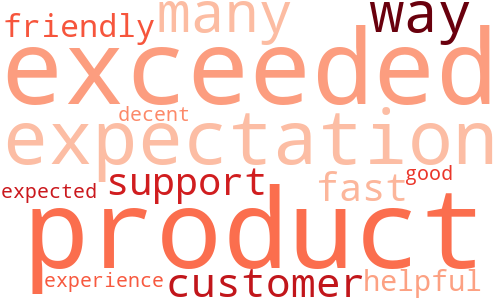
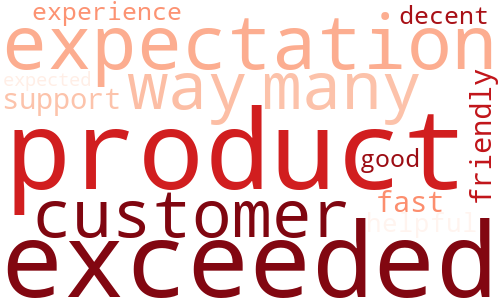
Latest Update

diff --git a/app.py b/app.py
@@ -10,7 +10,6 @@ import os
 
 app = Flask(__name__)
 
-#-----DB connect-----
 db = mysql.connector.connect(
     host="localhost",
     user="root",
@@ -19,47 +18,42 @@ db = mysql.connector.connect(
 )
 cursor = db.cursor()
 
-#-----Loaded model and vectorizer----
 loaded_vectorizer = joblib.load("tfidf_vectorizer.pkl")
 loaded_model = joblib.load("best_model.pkl")
 
-#------NLTK setup-------
 nltk.download('stopwords')
 nltk.download('wordnet')
 stop_words = set(stopwords.words('english'))
 lemmatizer = WordNetLemmatizer()
 
-# -------- Text Cleaner --------
 def clean_text(text):
     if not isinstance(text, str):
         return ""
     text = text.lower()
-    text = re.sub(r'\d+', '', text)  # hapus angka
-    text = re.sub(r"http\S+", "", text)  # hapus link
-    text = text.translate(str.maketrans("", "", string.punctuation))  # hapus tanda baca
+    text = re.sub(r'\d+', '', text)  
+    text = re.sub(r"http\S+", "", text)  
+    text = text.translate(str.maketrans("", "", string.punctuation)) 
     words = text.split()
     words = [word for word in words if word not in stop_words]
     words = [lemmatizer.lemmatize(word) for word in words]
     return " ".join(words)
 
-# -------- Sentiment Predictor --------
+
 def predict_sentiment(text, vectorizer, model):
     clean = clean_text(text)
     X_vec = vectorizer.transform([clean])
     y_pred = model.predict(X_vec)
     return int(y_pred[0])   # 1 = negative, 2 = positif
 
-# -------- Home --------
 @app.route("/")
 def home():
     return render_template("index.html")
 
-# -------- Dashboard --------
 @app.route("/dashboard")
 def dashboard():
-    mode = request.args.get("mode", "overall")  # default overall
+    mode = request.args.get("mode", "overall")  
 
-    # --- filter ---
+  
     if mode == "today":
         filter_total = "WHERE DATE(created_at) = CURDATE()"
         filter_pred = "AND DATE(created_at) = CURDATE()"
@@ -67,23 +61,18 @@ def dashboard():
         filter_total = ""
         filter_pred = ""
 
-    # --- Total ---
     cursor.execute(f"SELECT COUNT(*) FROM sentiment_results {filter_total}")
     total_reviews = cursor.fetchone()[0] or 0
 
-    # --- Positive ---
     cursor.execute(f"SELECT COUNT(*) FROM sentiment_results WHERE prediction = 2 {filter_pred}")
     positive_count = cursor.fetchone()[0] or 0
 
-    # --- Negative ---
     cursor.execute(f"SELECT COUNT(*) FROM sentiment_results WHERE prediction = 1 {filter_pred}")
     negative_count = cursor.fetchone()[0] or 0
 
-    # --- Percentage ---
     positive_percentage = round((positive_count / total_reviews) * 100, 1) if total_reviews > 0 else 0
     negative_percentage = round((negative_count / total_reviews) * 100, 1) if total_reviews > 0 else 0
 
-    # --- Recent reviews ---
     cursor.execute(f"""
         SELECT text_input, prediction, created_at 
         FROM sentiment_results 
@@ -103,7 +92,6 @@ def dashboard():
             "time": created_at.strftime("%Y-%m-%d %H:%M:%S")
         })
 
-    # --- Trend data ---
     if mode == "today":
         cursor.execute("""
             SELECT HOUR(created_at),
@@ -135,7 +123,6 @@ def dashboard():
     trend_negative = [r[2] for r in trend_rows[::-1]]
     trend_score = [float(r[3]) for r in trend_rows[::-1]]
 
-    # --- Word Cloud Data ---
     cursor.execute(f"SELECT text_input, prediction FROM sentiment_results {filter_total}")
     texts = cursor.fetchall()
     pos_text = " ".join([clean_text(t[0]) for t in texts if t[1] == 2])
@@ -169,7 +156,6 @@ def dashboard():
         wordcloud_neg="wordcloud_negative.png"
     )
 
-# -------- API Predict --------
 @app.route("/api/predict", methods=["POST"])
 def api_predict():
     data = request.get_json(silent=True) or request.form
@@ -177,13 +163,9 @@ def api_predict():
     if not text or not text.strip():
         return jsonify({"error": "text is required"}), 400
     
-    # Pred Model
     pred = predict_sentiment(text, loaded_vectorizer, loaded_model)
-
-    # Datetime
     created_at = datetime.now()
 
-    # save to db
     sql = "INSERT INTO sentiment_results (text_input, prediction, created_at) VALUES (%s, %s, %s)"
     val = (text, pred, created_at)
     cursor.execute(sql, val)

diff --git a/README.md b/README.md
@@ -44,10 +44,25 @@ This project aims to analyze sentiment from sales reviews, The model used in thi
 **Flowchart NLP pipeline**
 ![NLP Pipeline](Diagram/NLP_Pipeline.drawio.png)
 
+## Project Overview
+**User Review Input**
+![User Input](projectoverview/Input_review.png)
+
+**Dashboard**
+![Dashboard](projectoverview/dashboard_1.png)
+![Dashboard](projectoverview/Dashboard_1.png)
 ## Installation Instruction
- - Clone repository
- - Open VS Code
- - Active the environment
- - run python app.py
+- Clone the repository from GitHub
+- Navigate to the project directory
+- Download the provided database file
+- Import the database into your DBMS (MySQL Workbench / phpMyAdmin)
+- Ensure the database name is sentiment_db
+- Open the project in VS Code
+- Create a virtual environment using python -m venv venv
+- Activate the virtual environment (venv\Scripts\activate for Windows or source venv/bin/activate for Mac/Linux)
+- Install all dependencies using pip install -r requirements.txt
+- Configure the database connection in your Python file (host, user, password, database)
+- Run Python and download NLTK resources (stopwords and wordnet)
+- Start the application using python app.py
 
 
